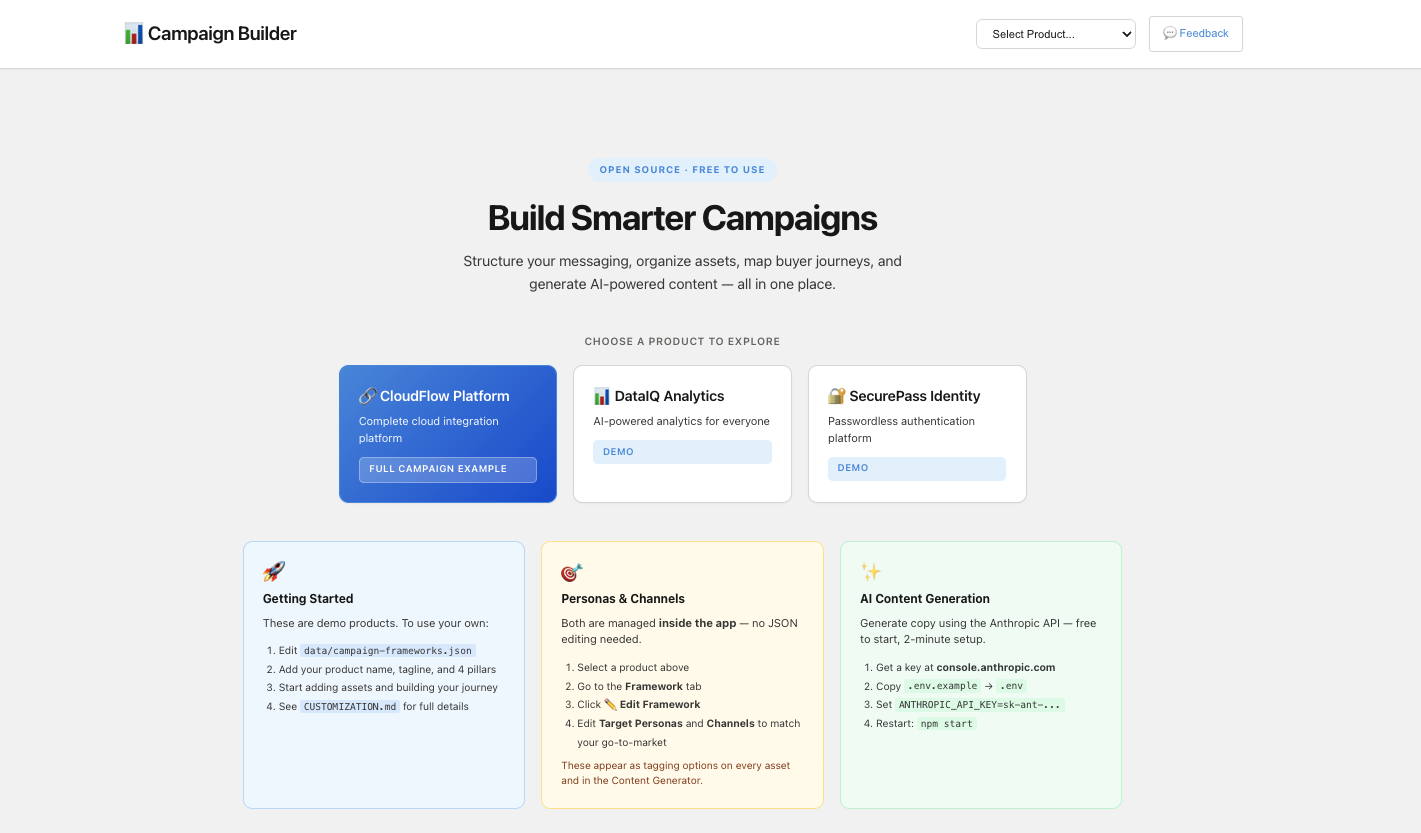
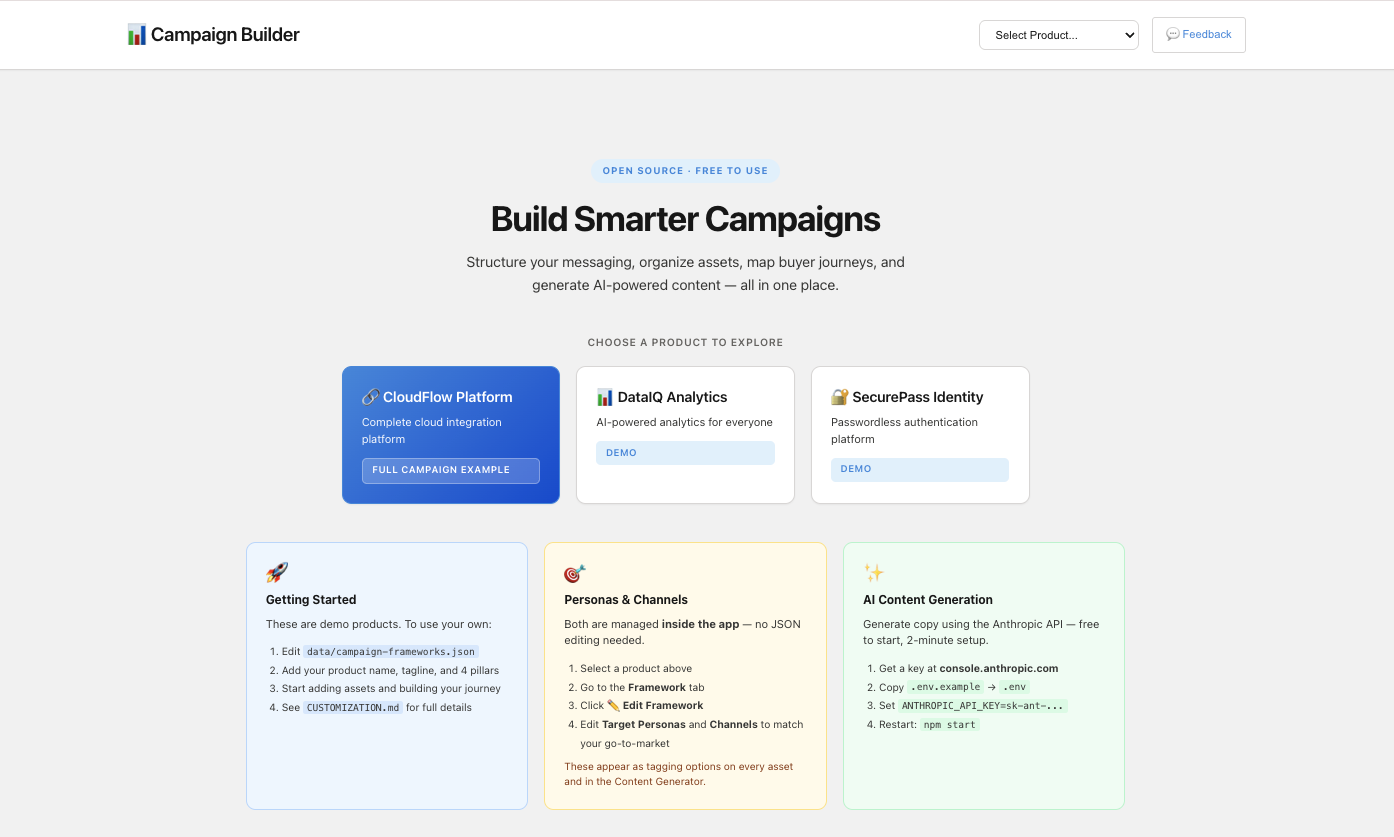
Update screenshots: home page, framework editor, asset modal, feedback
- New home page screenshot showing redesigned hero + setup cards layout
- Split edit asset into two screenshots (top/bottom of modal)
- Add general framework editor screenshot alongside personas & channels view
- Updated feedback form screenshot
- Remove old single-image asset detail screenshot

diff --git a/campaign-builder-public/README.md b/campaign-builder-public/README.md
@@ -50,9 +50,14 @@ View your portfolio message, tagline, and 4 strategic pillars with the campaign 
 ![Framework View](docs/images/02-framework-view.png)
 
 ### Framework Editor
-Edit messaging, tagline, pillars, target personas, and marketing channels — all in one modal.
+Edit messaging, tagline, and pillars in one place.
 
-![Framework Editor](docs/images/03-edit-personas-and-channels.png)
+![Framework Editor](docs/images/03-framework-editor.png)
+
+### Personas & Channels
+Define target personas and marketing channels per product — no JSON editing required.
+
+![Personas and Channels](docs/images/03-edit-personas-and-channels.png)
 
 ### Asset Repository
 Search, filter, and manage marketing assets with colored tags, inline status toggle, and one-click duplicate.
@@ -62,7 +67,9 @@ Search, filter, and manage marketing assets with colored tags, inline status tog
 ### Edit Asset
 Full asset editing with dynamic channel and persona checkboxes, URL field, funnel stage, and quarter assignment.
 
-![Edit Asset](docs/images/05-edit-asset.png)
+![Edit Asset](docs/images/05-edit-asset-1.png)
+
+![Edit Asset continued](docs/images/05-edit-asset-2.png)
 
 ### Campaign Flow
 Visualize how assets map through your buyer journey from awareness to decision.
